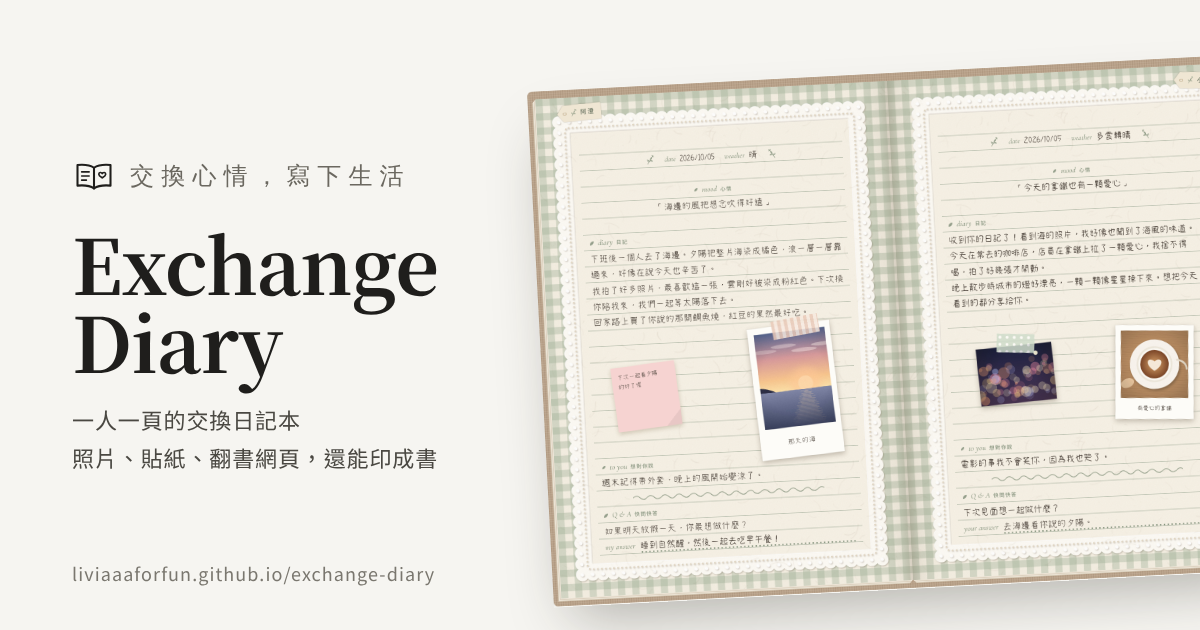
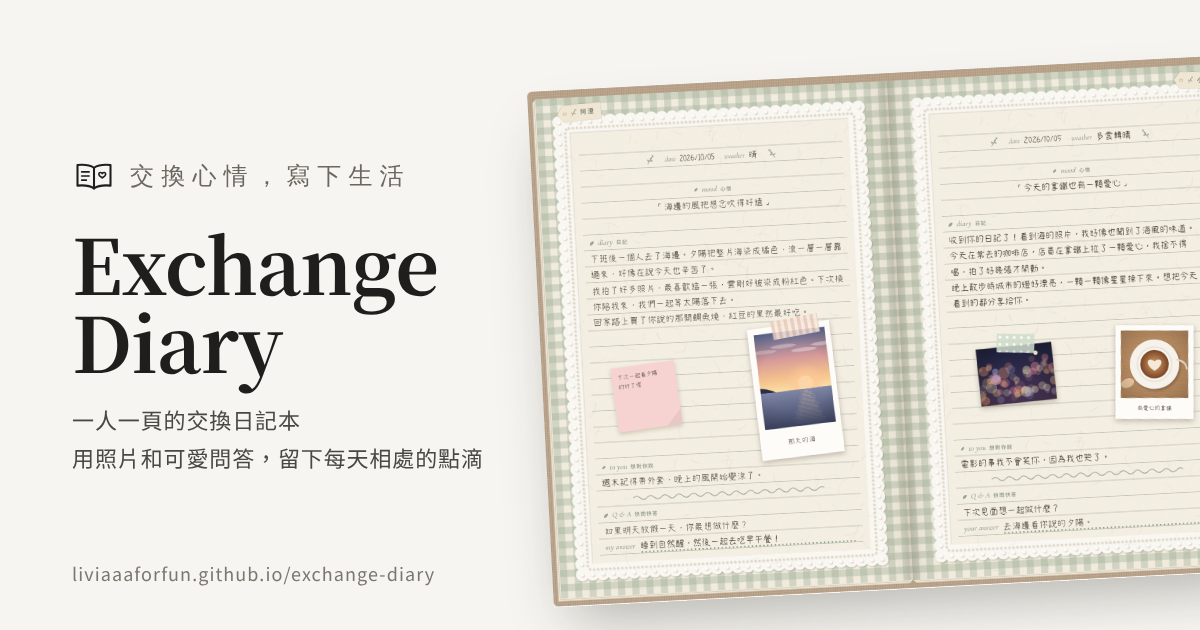
Add files via upload

Changed region(s): [[0.0617, 0.6937, 0.4008, 0.754]]

diff --git a/index.html b/index.html
@@ -21,7 +21,7 @@
 <meta property="og:url" content="https://liviaaaforfun.github.io/exchange-diary/">
 <meta property="og:title" content="Exchange Diary｜交換心情，寫下生活">
 <meta property="og:description" content="一人一頁的交換日記本，用照片和可愛問答，留下每天相處的點滴。">
-<meta property="og:image" content="https://liviaaaforfun.github.io/exchange-diary/og.png">
+<meta property="og:image" content="https://liviaaaforfun.github.io/exchange-diary/og.png?v=2">
 <meta property="og:image:width" content="1200">
 <meta property="og:image:height" content="630">
 <meta property="og:image:alt" content="Exchange Diary：一人一頁的交換日記跨頁，貼著拍立得照片">
